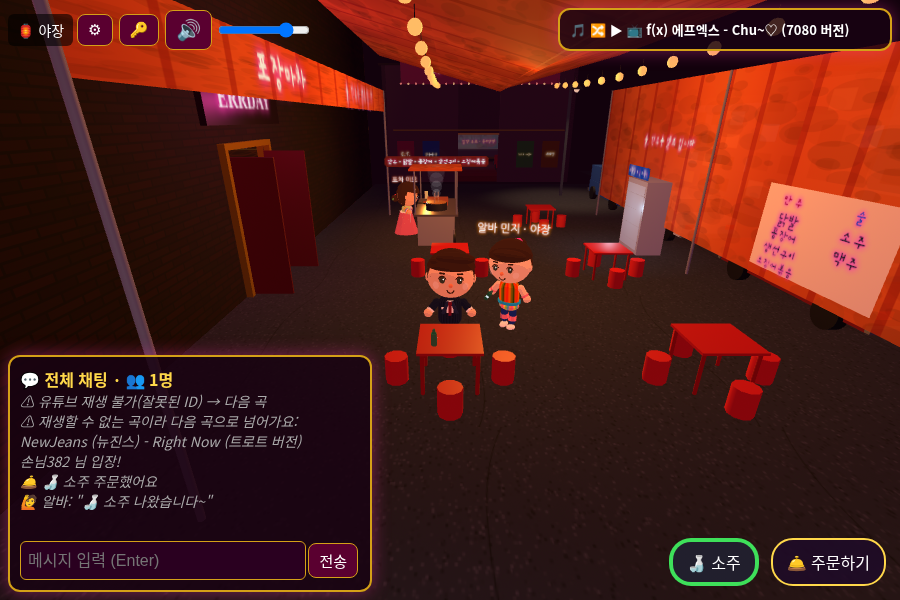
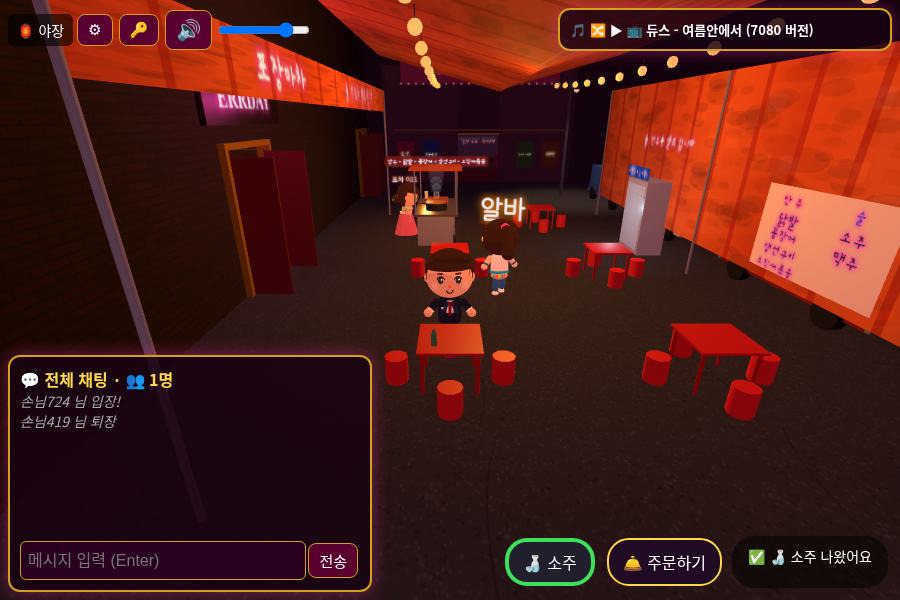
나이트→극장 문을 포장마차 문과 같은 진짜 문으로, 극장 쪽 벽 끝(x=9.6)으로 이동; 알바 이름/흰티·청바지; 주문·알바 안내는 채팅창에 안 띄움

diff --git a/public/app.js b/public/app.js
@@ -125,7 +125,7 @@ let route=[];
 function setRoute(x,z){const p=rig.object3D.position,onSt=(X,Z)=>X>=STAGE.x0-.3&&X<=STAGE.x1+.3&&Z<=STAGE.sz1&&heightAt(X,Z)>.35,up=onSt(x,z),me_up=onSt(p.x,p.z);route=[];
  const bottom=new THREE.Vector3(0,0,STAGE.sz1+.35),top=new THREE.Vector3(0,0,STAGE.sz0-.35);
  if(up&&!me_up)route=[bottom,top];else if(!up&&me_up)route=[top,bottom];
- if(isOut(z)!==isOut(p.z)){const D=window.DOOR,a=new THREE.Vector3(D.x,0,11.1),b=new THREE.Vector3(D.x,0,12.9);if(isOut(z))route.push(a,b);else route.push(b,a);}
+ if(isOut(z)!==isOut(p.z)){const D0=window.DOOR,D1=THEATER.CLUB_DOOR,dd=d=>Math.abs(p.x-d.x)+Math.abs(x-d.x),D=dd(D1)<dd(D0)?D1:D0,a=new THREE.Vector3(D.x,0,11.1),b=new THREE.Vector3(D.x,0,12.9);if(isOut(z))route.push(a,b);else route.push(b,a);}
  {const inZ=(X,Z)=>{const B=window.BAR_ZONE;return B&&X>=B.x0-.1&&X<=B.x1&&Z>=B.z0&&Z<=B.z1;},N=(p.z+z)/2<2.25,A=new THREE.Vector3(9.9,0,N?-2.4:6.8),Bv=new THREE.Vector3(11.02,0,N?-2.4:6.8);
   if(inZ(x,z)&&!inZ(p.x,p.z))route.push(A,Bv);else if(!inZ(x,z)&&inZ(p.x,p.z))route.push(Bv,A);}
  route.push(new THREE.Vector3(x,0,z));goal=route.shift();showMarker(x,z,heightAt(x,z));}
@@ -133,7 +133,7 @@ function showMarker(x,z,y=0){marker.object3D.position.set(x,y+.06,z);marker.setA
 const BOUND={x0:-11.4,x1:13.4,z0:-11.4,z1:25.4},ROOM_IN={x0:-11.8,x1:11.8,z0:-11.8,z1:11.8,y1:7.8},ROOM_OUT={x0:-13.5,x1:25.5,z0:12.2,z1:25.8,y1:14};let ROOM=ROOM_IN;
 const isOut=z=>z>12;
 // 앞벽(문 구멍 제외)은 사각 장애물
-{const D=window.DOOR,dl=D.x-D.w/2,dr=D.x+D.w/2;OBSTACLES.push({x0:11.6,x1:14,z0:-12.5,z1:12.15},{x0:-12.5,x1:dl,z0:11.85,z1:12.15},{x0:dr,x1:12.5,z0:11.85,z1:12.15});}
+{const D=window.DOOR,dl=D.x-D.w/2,dr=D.x+D.w/2;OBSTACLES.push({x0:11.6,x1:14,z0:-12.5,z1:12.15},{x0:-12.5,x1:dl,z0:11.85,z1:12.15},{x0:dr,x1:THEATER.CLUB_DOOR.x-THEATER.CLUB_DOOR.w/2,z0:11.85,z1:12.15},{x0:THEATER.CLUB_DOOR.x+THEATER.CLUB_DOOR.w/2,x1:12.5,z0:11.85,z1:12.15});}
 // 카메라 충돌: 벽·바·무대 구조물을 상자(AABB)로 근사해 머리→카메라 광선 검사 (모바일에서도 가벼움)
 const CAM_OCC=[[10-.65,0,-1.65,10+.65,1.3,6.15],[9.4,1.2,6,10.6,2.3,6.15],[9.45,0,7.45,10.55,1.3,7.75],[11.4,0,-1.6,12.5,3.9,7.6],[-3.6,0,-11.8,3.6,4.9,-11.45],[-5.6,.7,-11.6,-3.5,5.5,-11.05],[3.5,.7,-11.6,5.6,5.5,-11.05],[-5.6,4.8,-11.4,5.6,5.5,-11],[1.65,.7,-9.45,4.35,1.95,-8.55],[TENT.x0-.1,TENT.e-.1,TENT.z0-.1,TENT.x1+.1,TENT.r+.2,TENT.z1+.1],[TENT.x0,.4,TENT.z1-.1,TENT.x1,TENT.e,TENT.z1+.1],[-.6,0,15.3,2.2,1.1,16.7],THEATER.camOcc[THEATER.camOcc.length-1]];const CAM_SKIP=new Set([3]); // 벽은 카메라를 막지 않음 (대신 가리는 벽을 숨김)
 function camHit(ox,oy,oz,dr,max,bt){let t=max;const lim=[[dr.y,oy,.25,ROOM.y1-.1]];
@@ -169,7 +169,6 @@ AFRAME.registerComponent('my-sync',{tick(t,dt){dt=Math.min(dt||16,50)/1000;const
   {const ss=mySeat&&SEATS.find(q=>q.id===mySeat);const hy=mySeat?(ss.y||0):heightAt(p.x,p.z);if(mySeat)jumpV=null;else if(jumpV===null&&p.y-hy>.25)jumpV=0;if(jumpV!==null){jumpV-=14*dt;p.y+=jumpV*dt;if(p.y<=hy&&jumpV<0){p.y=hy;jumpV=null;}}else p.y+=(hy-p.y)*Math.min(1,dt*14);}if(!mySeat)$('prompt').classList.add('hidden');}
  if(!mySeat&&!moving&&!goal&&joined){idleT+=dt;if(idleT>3&&!myDance)myDance=1+Math.floor(Math.random()*3);}else{idleT=0;myDance=0;}
  myAv.object3D.rotation.y=myYaw;if(myAv._h)myAv._h.play(mySeat?'Sitting_Idle_Loop':(moving?'Walk_Loop':(myDance?'Dance_'+myDance:'Idle_Loop')));
-if(!mySeat&&!window.OUTSIDE&&THEATER.clubDoorHit(p.x,p.z)&&performance.now()-(window._tdT||0)>1500){window._tdT=performance.now();const A=THEATER.ARRIVE;p.set(A.x,0,A.z);myYaw=A.yaw;camYaw=A.yaw+Math.PI;goal=null;goalSeat=null;route=[];marker.setAttribute('visible',false);sys('🎬 극장 앞 포차 거리로 나왔어요');}
  {const out=isOut(p.z);ROOM=out?ROOM_OUT:ROOM_IN;if(out!==window.OUTSIDE){window.OUTSIDE=out;applyVolume();}const th=THEATER.inside(p.x,p.z);if(th!==!!window.IN_THEATER){window.IN_THEATER=th;applyVolume();updateWhere();applySubs();}}
  const tx=p.x,ty=p.y+(mySeat?.95:1.1)+(mySeat&&mySeat.startsWith('TH-')?THEATER.CAM_LIFT:0),tz=p.z;let d=camDist;
  if(camGoal){let d=camGoal.yaw-camYaw;d=Math.atan2(Math.sin(d),Math.cos(d));const k=1-Math.exp(-dt*5);camYaw+=d*k;camPitch+=(camGoal.pitch-camPitch)*k;if(Math.abs(d)<.002&&Math.abs(camGoal.pitch-camPitch)<.002)camGoal=null;}
@@ -251,7 +250,7 @@ function serve(kind){if(!inBarZone())return;const n=Date.now();if(n-(window._las
  const p=rig.object3D.position;socket.emit('serve',{x:p.x,z:p.z,kind});}
 window.serve=serve;window.drink=drink;
 function actions(){const A=[];if(mySeat){if(isBarSeat()){if(GLASSES[mySeat])A.push([GLASSES[mySeat]==='cocktail'?'🍸 칵테일':'🥃 위스키',()=>drink(GLASSES[mySeat]),'d-'+GLASSES[mySeat]]);}
-  else{for(const k of ['soju','beer'])if(canDrink(k))A.push([ITEM_NAME[k],()=>drink(k),'d-'+k,usesTxt(k)]);const t=myTable();if(t&&myCarry)A.push(['🍽 테이블에 놓기',()=>socket.emit('place'),'place']);if(t)for(const k of ['dakbal','kkom','fish','squid','chicken','hoe','fruit'])if((TABLE_ITEMS[t]||[]).includes(k))A.push([ITEM_NAME[k]+' 먹기',()=>eat(k),'e-'+k,usesTxt(k)]);if(t&&t[0]==='Y'){A.push(['🛎 주문하기',()=>openOrder(),'order']);if(MY_ORDERS.length)A.push(['⏳ 주문: '+MY_ORDERS.map(o=>ITEM_NAME[o.kind]).join(', ')+' · 알바가 준비 중',null,'lbl']);}}
+  else{for(const k of ['soju','beer'])if(canDrink(k))A.push([ITEM_NAME[k],()=>drink(k),'d-'+k,usesTxt(k)]);const t=myTable();if(t&&myCarry)A.push(['🍽 테이블에 놓기',()=>socket.emit('place'),'place']);if(t)for(const k of ['dakbal','kkom','fish','squid','chicken','hoe','fruit'])if((TABLE_ITEMS[t]||[]).includes(k))A.push([ITEM_NAME[k]+' 먹기',()=>eat(k),'e-'+k,usesTxt(k)]);if(t&&t[0]==='Y'){A.push(['🛎 주문하기',()=>openOrder(),'order']);if(ORDER_NOTE)A.push([ORDER_NOTE,null,'lbl']);if(MY_ORDERS.length)A.push(['⏳ 주문: '+MY_ORDERS.map(o=>ITEM_NAME[o.kind]).join(', ')+' · 알바가 준비 중',null,'lbl']);}}
   return A;}
  if(inBarZone()){A.push(['🍸 바텐더 서빙:',null,'lbl'],['🥃 위스키',()=>serve('whiskey'),'s-whiskey'],['🍸 칵테일',()=>serve('cocktail'),'s-cocktail']);return A;}
  if(!mySeat&&(window.WAITERS||[]).some(w=>w.near))A.push(['💝 후원하기',()=>window.open('https://toon.at/donate/errdaydrip','_blank','noopener'),'donate']);
@@ -436,14 +435,14 @@ let _fovNow=0;function theaterFov(cx,cy,cz){const o=scene.camera;if(!o||!o.isPer
  if(Math.abs(want-o.fov)>.05){o.fov+= (want-o.fov)*.2;o.updateProjectionMatrix();}}
 
 // ---------- 야장 주문 (포차 테이블에 앉으면 🛎 주문하기 → 알바가 가져다 줌) ----------
-const ORDER_MENU={anju:['dakbal','kkom','fish','squid','chicken','hoe'],drink:['soju','beer']};var MY_ORDERS=[];let orderTab='anju';window.ALBA_JOB=null;
+const ORDER_MENU={anju:['dakbal','kkom','fish','squid','chicken','hoe'],drink:['soju','beer']};var MY_ORDERS=[],ORDER_NOTE='';let _onT=0;/* 주문 관련 안내는 채팅창이 아니라 행동바에만 잠깐 표시 */function orderNote(t){ORDER_NOTE=t;clearTimeout(_onT);_onT=setTimeout(()=>{ORDER_NOTE='';refreshAct(true);},3000);refreshAct(true);}let orderTab='anju';window.ALBA_JOB=null;
 function renderOrder(){const m=$('orderMenu');m.querySelectorAll('.otab').forEach(b=>b.classList.toggle('on',b.dataset.tab===orderTab));const L=m.querySelector('.olist');L.innerHTML='';
  for(const k of ORDER_MENU[orderTab]){const b=document.createElement('button');b.textContent=ITEM_NAME[k];b.dataset.k=k;b.onclick=e=>{e.stopPropagation();placeOrder(k);};L.appendChild(b);}}
 function openOrder(){const m=$('orderMenu');if(!m.classList.contains('hidden')){m.classList.add('hidden');return;}renderOrder();m.classList.remove('hidden');}
-function placeOrder(k){socket.emit('order',k,r=>{if(r&&r.ok){MY_ORDERS.push({id:r.id,kind:k});sys(`🛎 ${ITEM_NAME[k]} 주문했어요${r.queue>1?` (대기 ${r.queue-1}건)`:''}`);$('orderMenu').classList.add('hidden');refreshAct(true);}else sys('주문 실패: '+((r&&r.err)||'?'));});}
+function placeOrder(k){socket.emit('order',k,r=>{if(r&&r.ok){MY_ORDERS.push({id:r.id,kind:k});$('orderMenu').classList.add('hidden');refreshAct(true);}else orderNote('주문 실패: '+((r&&r.err)||'?'));});}
 document.querySelectorAll('#orderMenu .otab').forEach(b=>b.onclick=e=>{e.stopPropagation();orderTab=b.dataset.tab;renderOrder();});$('orderClose').onclick=e=>{e.stopPropagation();$('orderMenu').classList.add('hidden');};
 socket.on('albaJob',j=>{window.ALBA_JOB=j;});
-socket.on('albaDone',d=>{const i=MY_ORDERS.findIndex(o=>o.id===d.id);if(i>=0){MY_ORDERS.splice(i,1);sys(d.ok?`🙋 알바: "${ITEM_NAME[d.kind]} 나왔습니다~"`:'🙋 알바: "자리가 꽉 차서 못 놨어요 ㅠ"');refreshAct(true);}});
+socket.on('albaDone',d=>{const i=MY_ORDERS.findIndex(o=>o.id===d.id);if(i>=0){MY_ORDERS.splice(i,1);orderNote(d.ok?`✅ ${ITEM_NAME[d.kind]} 나왔어요`:'자리가 꽉 차서 못 놨어요');refreshAct(true);}});
 setInterval(()=>{const t=mySeat&&myTable();if(!(t&&t[0]==='Y'))$('orderMenu').classList.add('hidden');},300);
 
 // ---------- 재생목록 프리셋 3개 (관리자) : 모바일=버튼만, PC=버튼+이름/주소 편집 ----------

diff --git a/public/world.js b/public/world.js
@@ -230,6 +230,7 @@ function makeChibi(opts){const M=chibiMats(opts),f=opts.gender==='f',st=['suit',
  if(f&&st==='disco'){top=M.T(col);sleeve=top;pants=M.T(bcol);shoe=M.silver;cuff=M.T('#8a5bd6');}
  if(f&&st==='hanbok'){top=M.T(npc?'#b9e08a':col);sleeve=M.T('#fff',{map:SAEKDONG});pants=M.skin;shoe=M.T('#fff');}
  if(st==='aerobic'){top=M.T(col,{map:RAINBOW});sleeve=M.skin;pants=new THREE.MeshStandardMaterial({color:bcol,metalness:.2,roughness:.28,emissive:new THREE.Color(bcol).multiplyScalar(.25)});shoe=f?M.T('#fbfbf7'):M.skin;cuff=M.T(aeroAccent(bcol));}
+ if(opts.tee){top=M.T('#f5f5f5');sleeve=M.skin;pants=M.T('#2f5fa8');shoe=M.T('#fbfbf7');cuff=pants;} /* 알바: 흰 티 + 청바지 */
  // 몸통 (짧고 둥근 원통)
  torso.add(mesh(G.cap(.17,.22),top,[0,.27,0],[1.12,1,.8]));
  torso.add(mesh(G.cyl(.07,.08,.08),M.skin,[0,.53,0]));
@@ -466,7 +467,8 @@ function hand(v,o={}){return `value:${v};color:${o.c||'#fff'};glow:${o.g||''};bg
  // 앞벽(z=12)은 아래에서 문 구멍 있게 생성
  const seg=(x0,x1,y0,y1,inside)=>{const w=x1-x0,h=y1-y0,el=E('a-plane',{position:`${(x0+x1)/2} ${(y0+y1)/2} ${inside?11.99:12.01}`,rotation:inside?'0 180 0':'0 0 0',width:w,height:h,material:inside?'roughness:.9':'color:#3b3532;roughness:1'});
   if(inside){const t=TEX.wall();t.repeat.set(w/2,h/8);t.offset.y=(y0)/8;texMesh(el,t);}else texMesh(el,TEX.brick(w,h));};
- [true,false].forEach(i=>{seg(-12,dl,0,8,i);seg(dr,12,0,8,i);seg(dl,dr,DOOR.h,8,i);});
+ const C2=THEATER.CLUB_DOOR,cl=C2.x-C2.w/2,cr=C2.x+C2.w/2;
+ [true,false].forEach(i=>{seg(-12,dl,0,8,i);seg(dr,cl,0,8,i);seg(cr,12,0,8,i);seg(dl,dr,DOOR.h,8,i);seg(cl,cr,C2.h,8,i);});
  // 문틀 + 열린 문짝
  [[dl-.06,DOOR.h/2,.12,DOOR.h],[dr+.06,DOOR.h/2,.12,DOOR.h],[DOOR.x,DOOR.h+.06,DOOR.w+.24,.12]].forEach(([x,y,w,h])=>E('a-box',{position:`${x} ${y} 12`,width:w,height:h,depth:.3,material:'color:#d4a017;metalness:.7;roughness:.3'}));
  E('a-box',{position:`${dl+.05} ${DOOR.h/2-.05} 12.5`,rotation:'0 90 0',width:.95,height:DOOR.h-.15,depth:.05,material:'color:#5a1010;roughness:.6'});
@@ -753,17 +755,14 @@ shopGuy(20.5,'통닭 아저씨','#ececec','#f2f2ea','#ffffff','chicken');shopGuy
 })();
 
 // ---------- 나이트 → 극장 바로가기 문 ----------
-(function clubTheaterDoor(){const D=THEATER.CLUB_DOOR,z=D.z-.04;
- E('a-box',{position:`${D.x} ${D.h/2} ${z}`,width:D.w,height:D.h,depth:.04,material:'color:#2a0a14;roughness:.5;emissive:#300010;emissiveIntensity:.4'});
- [-1,1].forEach(s=>E('a-box',{position:`${D.x+s*(D.w/2+.06)} ${D.h/2} ${z-.02}`,width:.12,height:D.h,depth:.08,material:'color:#c8a040;metalness:.6;roughness:.3'}));
- E('a-box',{position:`${D.x} ${D.h+.06} ${z-.02}`,width:D.w+.24,height:.12,depth:.08,material:'color:#c8a040;metalness:.6;roughness:.3'});
- [-1,1].forEach(s=>E('a-sphere',{position:`${D.x+s*.12} 1.2 ${z-.05}`,radius:.04,material:'color:#ffd060;metalness:.8'}));
- E('a-entity',{position:`${D.x} ${D.h+.5} ${z-.05}`,rotation:'0 180 0',ktext:'value:EXIT · 🎬 극장 앞 포차 →;color:#fff3c0;glow:#ff8a00;size:70;width:2.2'});
- E('a-entity',{position:`${D.x} 1.6 ${z-.06}`,rotation:'0 180 0',ktext:'value:THEATER;color:#ffd060;glow:#ff2a6a;size:60;width:1.1'});
- E('a-entity',{position:`${D.x} ${D.h} ${z-.6}`,light:'type:point;color:#ffb070;intensity:.6;distance:3'});})();
+(function clubTheaterDoor(){const D=THEATER.CLUB_DOOR,dl=D.x-D.w/2,dr=D.x+D.w/2; /* 포장마차 문과 같은 모양: 금색 문틀 + 열린 빨간 문짝 + 초록 EXIT 네온 */
+ [[dl-.06,D.h/2,.12,D.h],[dr+.06,D.h/2,.12,D.h],[D.x,D.h+.06,D.w+.24,.12]].forEach(([x,y,w,h])=>E('a-box',{position:`${x} ${y} 12`,width:w,height:h,depth:.3,material:'color:#d4a017;metalness:.7;roughness:.3'}));
+ E('a-box',{position:`${dl+.05} ${D.h/2-.05} 12.5`,rotation:'0 90 0',width:.95,height:D.h-.15,depth:.05,material:'color:#5a1010;roughness:.6'});
+ E('a-box',{position:`${dr-.05} ${D.h/2-.05} 12.5`,rotation:'0 90 0',width:.95,height:D.h-.15,depth:.05,material:'color:#5a1010;roughness:.6'});
+ E('a-entity',{position:`${D.x} ${D.h+.5} 11.9`,rotation:'0 180 0',ktext:'value:EXIT · 🎬 극장 →;color:#d6ffe0;glow:#00ff66;size:70;width:1.9'});})();
 // ---------- 야장 알바: 주문 들어오면 냉장고/주방에서 집어 테이블로 ----------
-(async function alba(){const holder=E('a-entity',{position:'0.2 0 18.4'});const h=await makeHuman(holder,{...LOOKS.resolve({gender:'f',style:'aerobic',top:'#ff8c00',bottom:'#24306e',hair:'f2'}),gender:'f',style:'aerobic',skin:'#f6d2b0'});HUMANS.add(h);
- E('a-entity',{position:'0 1.85 0',billboard:'',ktext:'value:알바 민지 · 야장;color:#fff;glow:#ff8a00;size:36;width:1.4'},holder);
+(async function alba(){const holder=E('a-entity',{position:'0.2 0 18.4'});const h=await makeHuman(holder,{...LOOKS.resolve({gender:'f',style:'aerobic',top:'#f5f5f5',bottom:'#2f5fa8',hair:'f2'}),gender:'f',style:'aerobic',tee:true,skin:'#f6d2b0'});HUMANS.add(h);
+ E('a-entity',{position:'0 1.85 0',billboard:'',ktext:'value:알바;color:#fff;glow:#ff8a00;size:36;width:1.4'},holder);
  const A=window.ALBA={x:.2,z:18.4,job:null,holder,h};holder.object3D.rotation.y=-Math.PI/2;
  const lerp=(a,b,k)=>[a[0]+(b[0]-a[0])*k,a[1]+(b[1]-a[1])*k];
  AFRAME.registerComponent('alba-walk',{tick(t,dt){dt=Math.min(dt||16,50)/1000;const J=window.ALBA_JOB,o=holder.object3D;let p=[A.x,A.z],face=null,anim='Idle_Loop';

diff --git a/tests/clubdoor.shot.js b/tests/clubdoor.shot.js
@@ -3,7 +3,7 @@ const p=require('puppeteer-core');const W=ms=>new Promise(r=>setTimeout(r,ms));c
 (async()=>{const b=await p.launch({executablePath:'/usr/bin/google-chrome',args:['--no-sandbox','--use-gl=swiftshader','--enable-unsafe-swiftshader']});const pg=await b.newPage();await pg.setViewport({width:900,height:600});
  pg.on('pageerror',e=>console.log('ERR',e.message));await pg.goto('http://localhost:'+(process.env.PORT||8080));await pg.waitForFunction(()=>!document.getElementById('enter').disabled,{timeout:120000});await pg.click('#enter');await W(2500);
  console.log('blocked near door?',await pg.evaluate(()=>{const C=THEATER.CLUB_DOOR;const r=[];for(let z=9;z<=11.55;z+=.25)r.push(blocked(C.x,z)?1:0);return r.join('');}));
- await pg.evaluate(()=>{rig.object3D.position.set(-.2,0,9.9);camYaw=Math.PI;camPitch=.25;camDist=4;});await W(2500);await pg.screenshot({path:D+'clubdoor.png'});
+ await pg.evaluate(()=>{rig.object3D.position.set(THEATER.CLUB_DOOR.x,0,9.9);camYaw=Math.PI;camPitch=.25;camDist=4;});await W(2500);await pg.screenshot({path:D+'clubdoor.png'});
  await pg.evaluate(()=>{keys.KeyW=true;camYaw=Math.PI;});for(let i=0;i<30;i++){await W(500);if(await pg.evaluate(()=>window.OUTSIDE))break;}await pg.evaluate(()=>{keys.KeyW=false;});
- const r=await pg.evaluate(()=>[rig.object3D.position.x.toFixed(2),rig.object3D.position.z.toFixed(2),!!window.OUTSIDE,$('where').textContent]);console.log('after',r);a(r[2]&&+r[0]>12&&+r[0]<13.5,'outside at theater front');
- await W(2000);await pg.screenshot({path:D+'clubdoor_after.png'});console.log('clubdoor OK');await b.close();process.exit(0);})().catch(e=>{console.error(e);process.exit(1);});
+ const r=await pg.evaluate(()=>[rig.object3D.position.x.toFixed(2),rig.object3D.position.z.toFixed(2),!!window.OUTSIDE,$('where').textContent]);console.log('after',r);a(r[2]&&Math.abs(+r[0]-9.6)<1,'walked out through the theater-side door');
+ await pg.evaluate(()=>{camYaw=Math.PI*1.2;camPitch=.3;camDist=5;});await W(2000);await pg.screenshot({path:D+'clubdoor_after.png'});console.log('clubdoor OK');await b.close();process.exit(0);})().catch(e=>{console.error(e);process.exit(1);});

diff --git a/tests/theater.test.js b/tests/theater.test.js
@@ -32,9 +32,7 @@ a.strictEqual(TH.pickTrack([{language:'ja'},{language:'ko-KR'}],'language').lang
 // 폰 세로/가로: 계산한 시야각이면 스크린 폭·높이가 여백 두고 화면 안에 들어감
 [[9/19.5,70],[19.5/9,55],[16/9,70],[3/4,70]].forEach(([asp,base])=>[6,9,11].forEach(D=>{const f=TH.fitFov(D,asp,base)*Math.PI/180,th=Math.tan(f/2);
  a(T.screen.h/2/D<=th/1.19,'height fits '+asp+' '+D);a(T.screen.w/2/D<=th*asp/1.19,'width fits '+asp+' '+D);a(TH.fitFov(D,asp,base)>=base);}));
-// 나이트→극장 문: 포차 출구와 안 겹치고, 클럽 안에서 닿을 수 있고, 도착지는 극장 안 빈자리
-{const CD=TH.CLUB_DOOR,PD={x:-3.3,w:2};a(CD.x-CD.w/2>PD.x+PD.w/2+.5,'not overlapping pocha exit');
- a(TH.clubDoorHit(CD.x,11.55),'reachable (club wall pad stops at 11.6)');a(!TH.clubDoorHit(CD.x,11),'not in middle of club');a(!TH.clubDoorHit(PD.x,11.55),'pocha door untouched');
- const A=TH.ARRIVE;a(!TH.inside(A.x,A.z),'arrive outside (street)');a(A.z>12&&A.x<=13.4,'on pocha street');a(!hit(A.x,A.z),'arrive free');a(Math.abs(A.z-(T.door.z0+T.door.z1)/2)<.5&&T.x0-A.x<1.5,'in front of theater door');
- a(TH.seats.every(s=>Math.hypot(s.x-A.x,s.z-A.z)>.8),'not on a seat');}
+// 나이트→극장 문: 포장마차 문처럼 진짜 뚫린 문, 극장 쪽 벽 끝 (포차 문과 따로)
+{const CD=TH.CLUB_DOOR,PD={x:-3.3,w:2};a(CD.x-CD.w/2>PD.x+PD.w/2+.5,'not overlapping pocha exit');a.strictEqual(CD.z,12,'on club front wall like pocha door');a.strictEqual(CD.w,PD.w,'same size as pocha door');
+ a(Math.abs(T.x0-CD.x)<Math.abs(T.x0-PD.x)&&CD.x+CD.w/2<12,'nearer the theater, inside club wall');a(TH.clubDoorHit(CD.x,11.55)&&!TH.clubDoorHit(PD.x,11.55));}
 console.log('theater OK');

diff --git a/public/theater.js b/public/theater.js
@@ -37,8 +37,8 @@
  // 스크린(폭 w, 높이 h)을 거리 D에서 여백(margin) 두고 다 보이게 하는 세로 시야각(도). 가로가 좁은 세로폰이면 폭 기준으로 넓힘
  function fitFov(D,aspect,base,margin){margin=margin||1.2;const S=T.screen,r=Math.PI/180;const v1=2*Math.atan(S.h*margin/2/D)/r,v2=2*Math.atan(Math.tan(Math.atan(S.w*margin/2/D))/aspect)/r;return Math.max(base||0,v1,v2);}
  // 나이트 → 극장 바로가기 문 (포차 출구 오른쪽, 클럽 앞벽 안쪽). 들어서면 포차 거리 극장 정문 앞으로 나감
- const CLUB_DOOR={x:-.2,z:11.85,w:1.4,h:2.6},ARRIVE={x:12.9,z:18.1,yaw:Math.PI/2};
- const clubDoorHit=(x,z)=>Math.abs(x-CLUB_DOOR.x)<CLUB_DOOR.w/2&&z>11.3&&z<12;
+ const CLUB_DOOR={x:9.6,z:12,w:2,h:3},ARRIVE={x:12.9,z:18.1,yaw:Math.PI/2};
+ const clubDoorHit=(x,z)=>Math.abs(x-CLUB_DOOR.x)<CLUB_DOOR.w/2&&z>11.3&&z<12.7; /* 이제 진짜 뚫린 문 (포장마차 문과 같은 방식) */
  const api={CLUB_DOOR,ARRIVE,clubDoorHit,fitFov,aim,subsUI,pickTrack,CAM_LIFT,T,seats,inside,floorAt,obstacles,camOcc,corners,quadMatrix};
  if(typeof module!=='undefined')module.exports=api;else root.THEATER=api;
 })(typeof window!=='undefined'?window:this);
